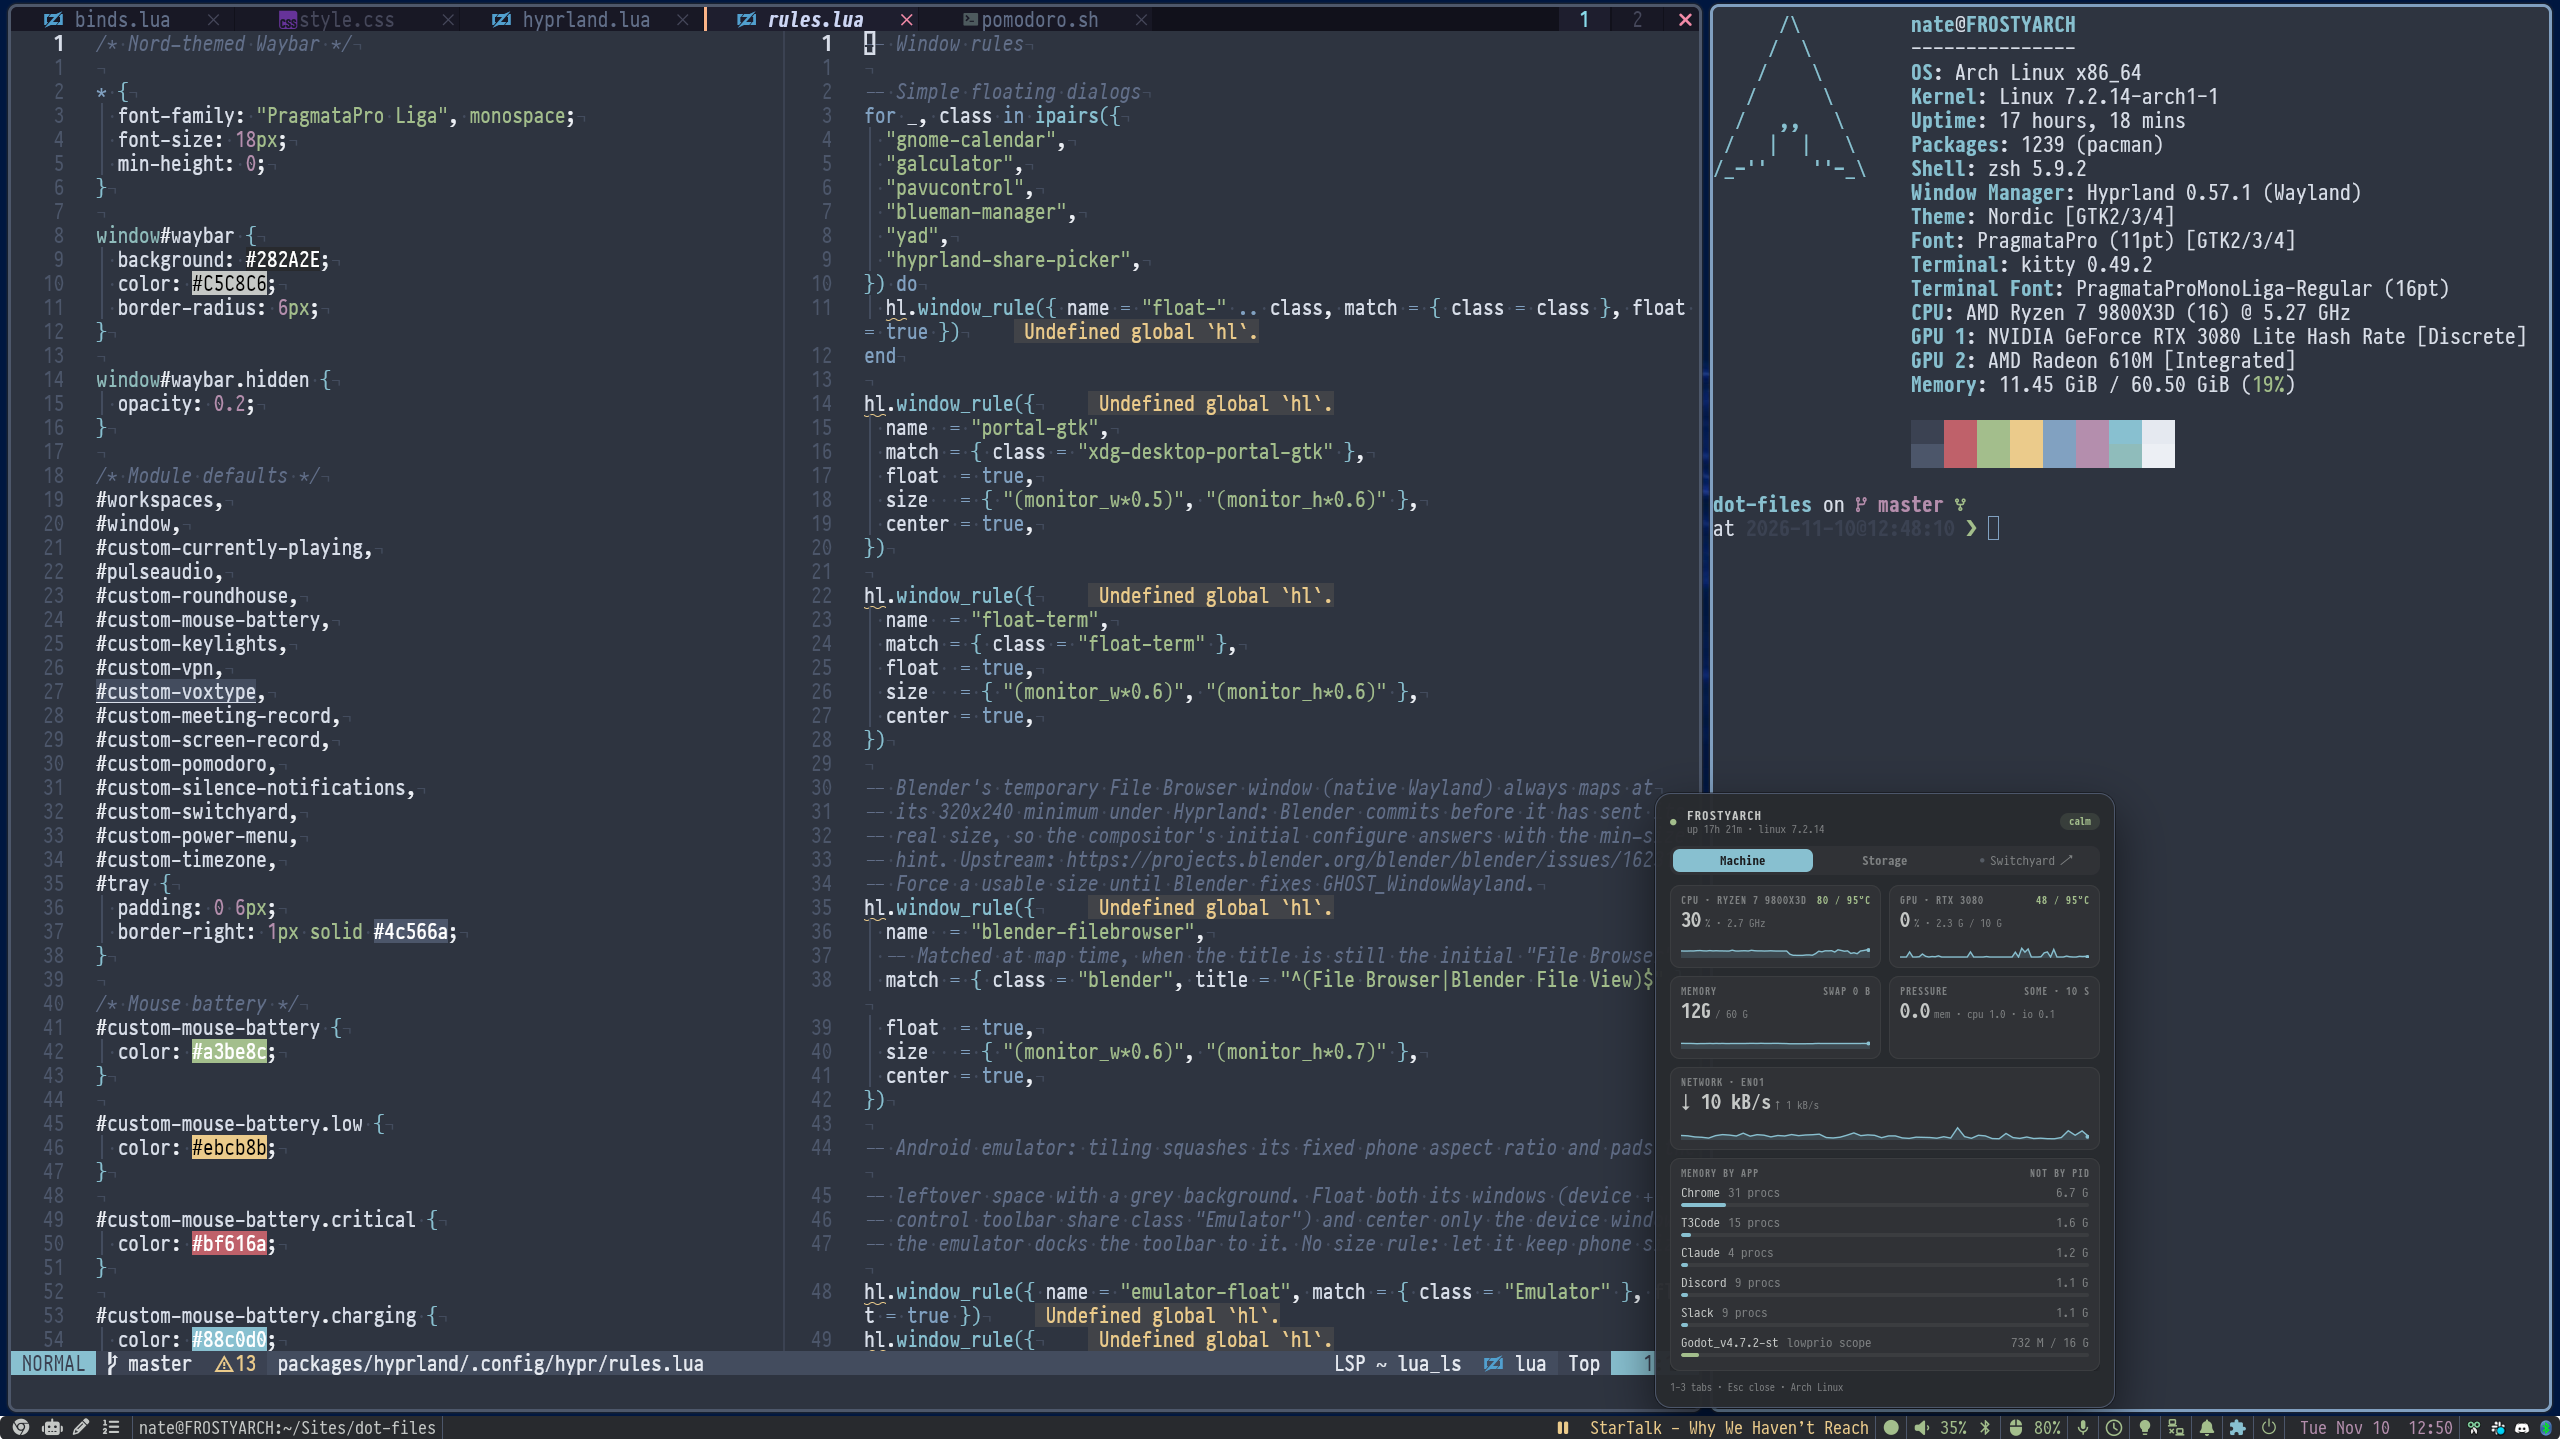
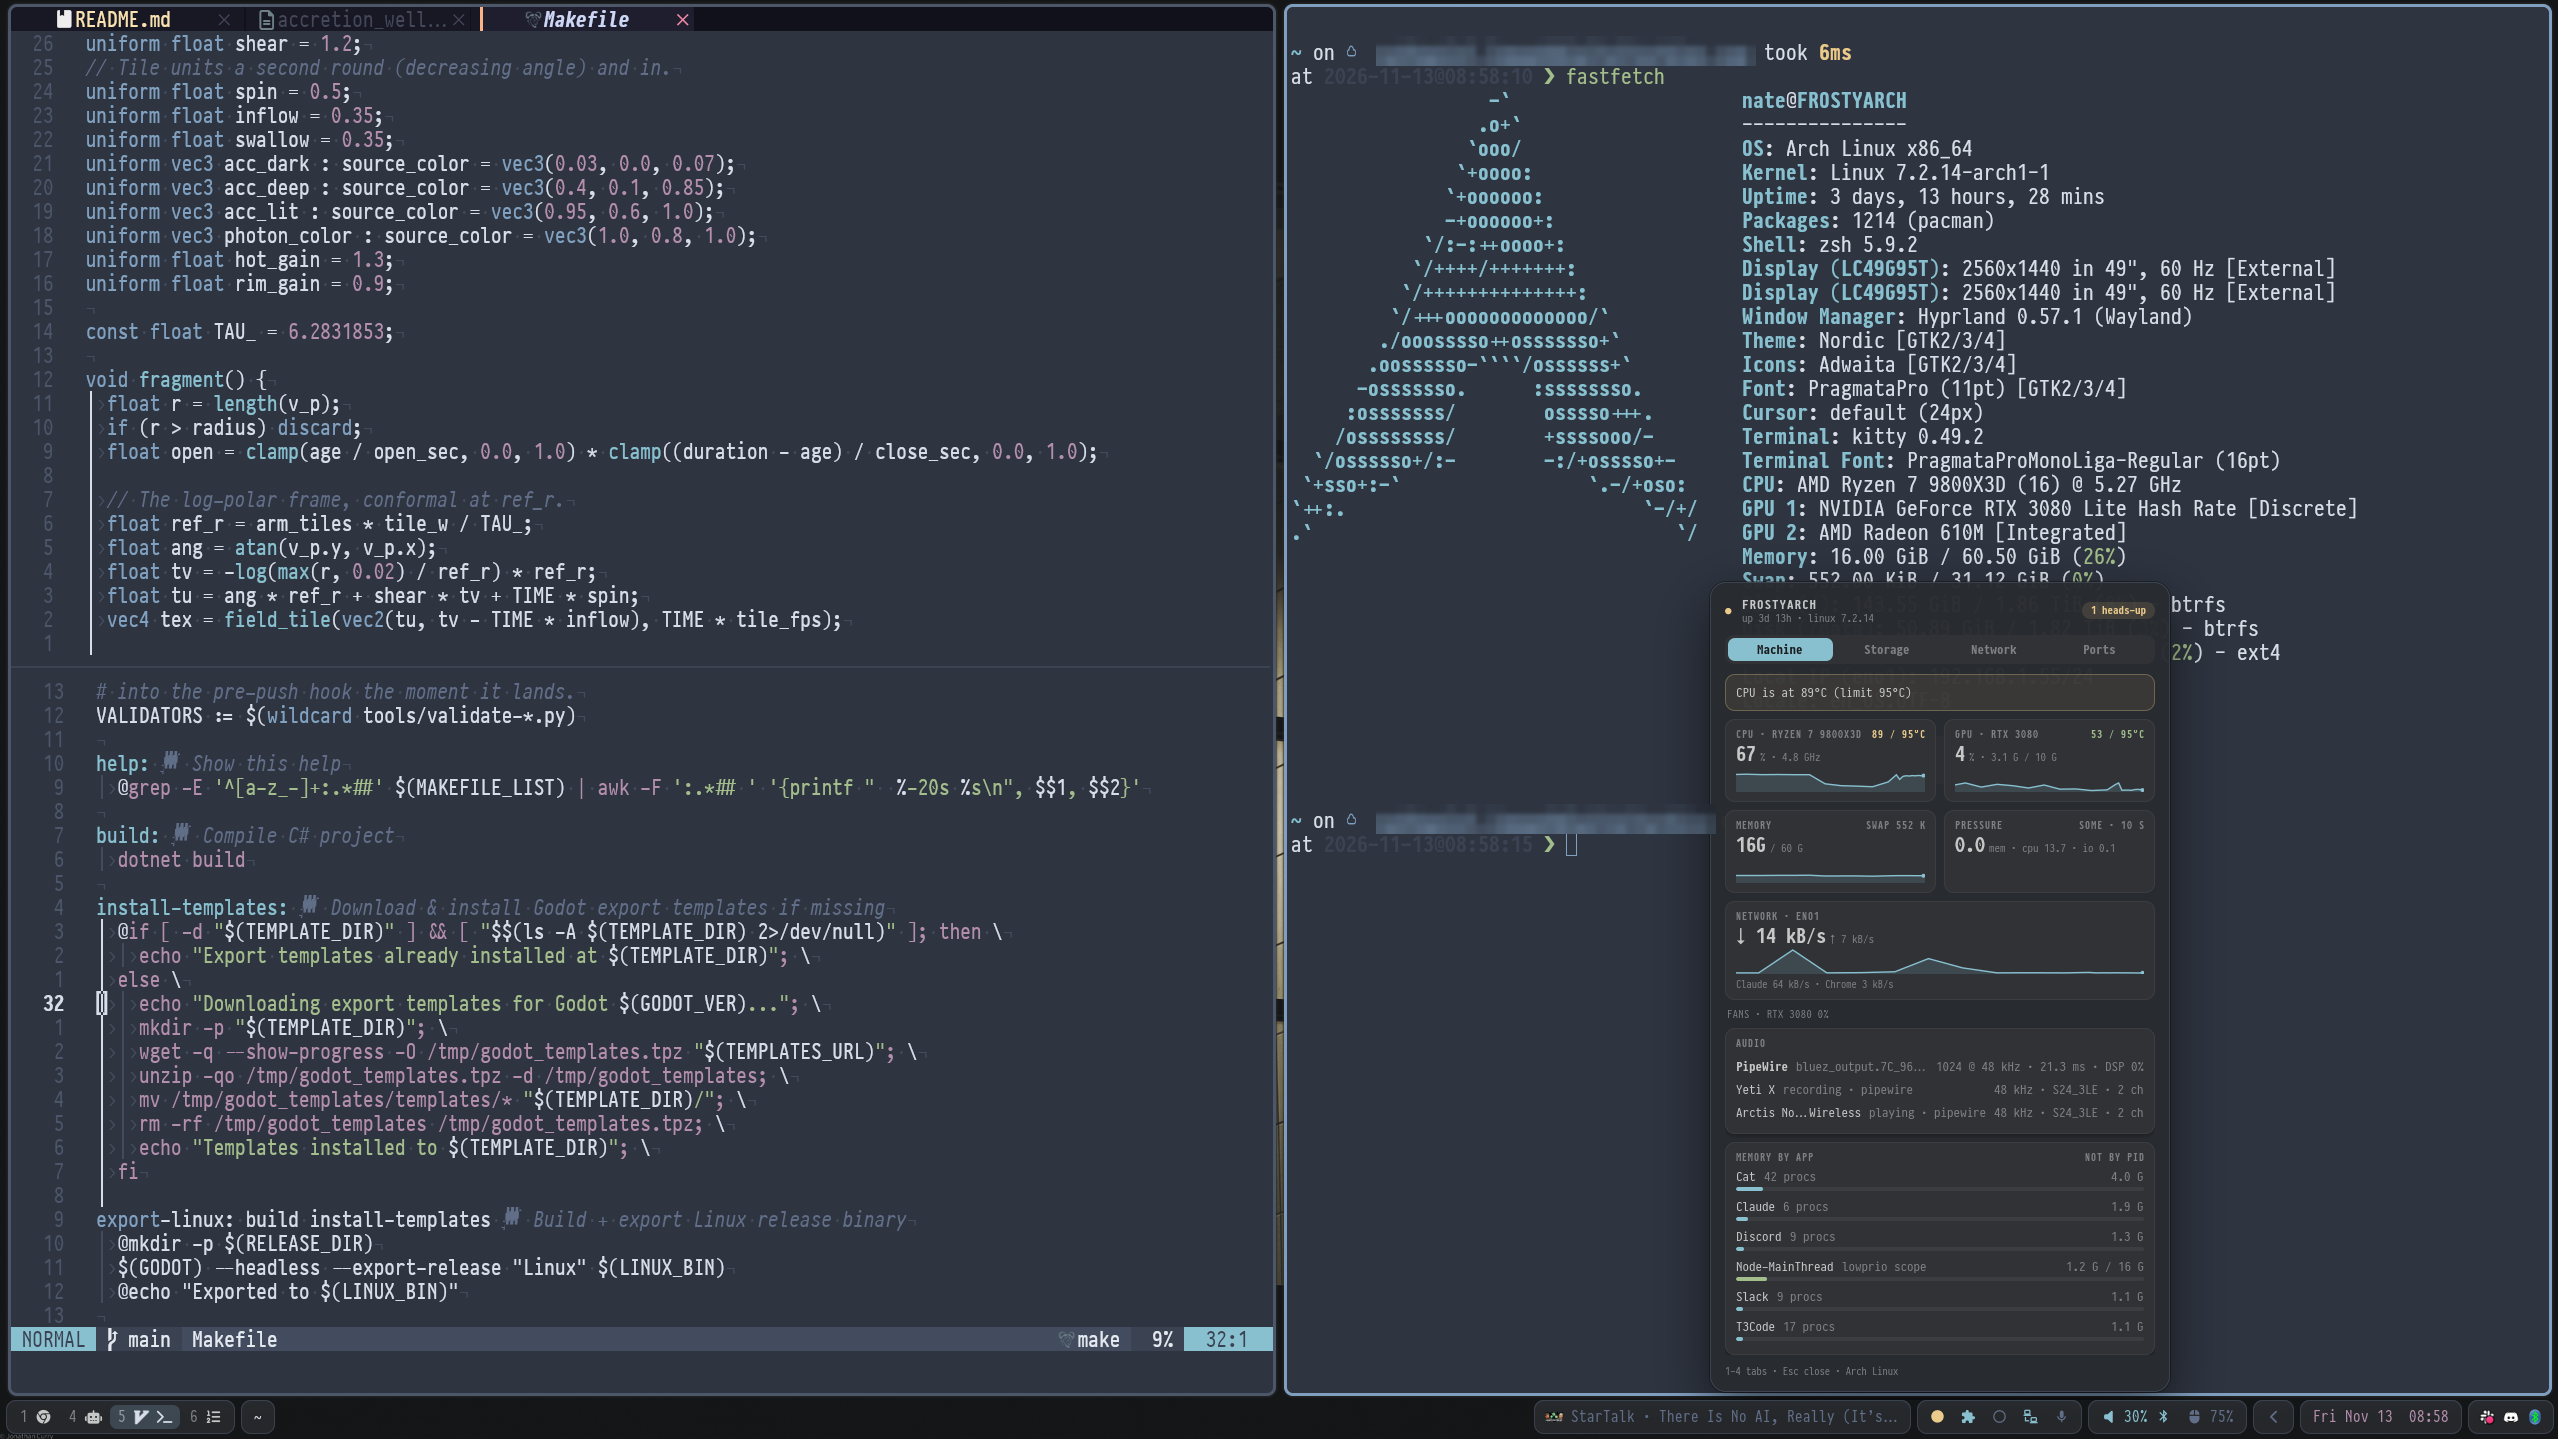
docs(readme): show the current bar in the desktop screenshot

Changed region(s): [[0.0, 0.0, 1.0, 1.0], [0.8647, 0.4281, 0.8956, 0.4587], [0.7721, 0.581, 0.803, 0.6115]]

diff --git a/README.md b/README.md
@@ -30,8 +30,8 @@ My Arch Linux desktop: Hyprland, waybar, kitty, zsh and Neovim. Each tool is its
 - **[Field notes](#field-notes)** for the problems real hardware threw at it, so you don't lose the evening I did.
 
 <p align="center">
-  <img src="Pictures/desktop.png" width="100%" alt="A real screenshot of the desktop: Neovide with the waybar stylesheet and the Hyprland window rules side by side, kitty showing fastfetch, and the Roundhouse drawer open above the bar with CPU, GPU, memory, network and memory by app.">
-  <br><sub>The real thing: Neovide on the waybar stylesheet and the Lua window rules, kitty, and the Roundhouse drawer open over the bar.</sub>
+  <img src="Pictures/desktop.png" width="100%" alt="A real screenshot of the desktop: Neovide split between a Godot shader and a Makefile, kitty showing fastfetch, and the Roundhouse drawer open above the bar with a CPU heads-up, CPU, GPU, memory, pressure, network, the audio devices and memory by app. The bar has the lamps pill (Roundhouse, Switchyard, Signal Box, Tablet and Logbook) and the desk pill closed to its arrow.">
+  <br><sub>The real thing: Neovide on a Godot shader and a Makefile, kitty, and the Roundhouse drawer open over the bar.</sub>
 </p>
 
 ## Quick start
